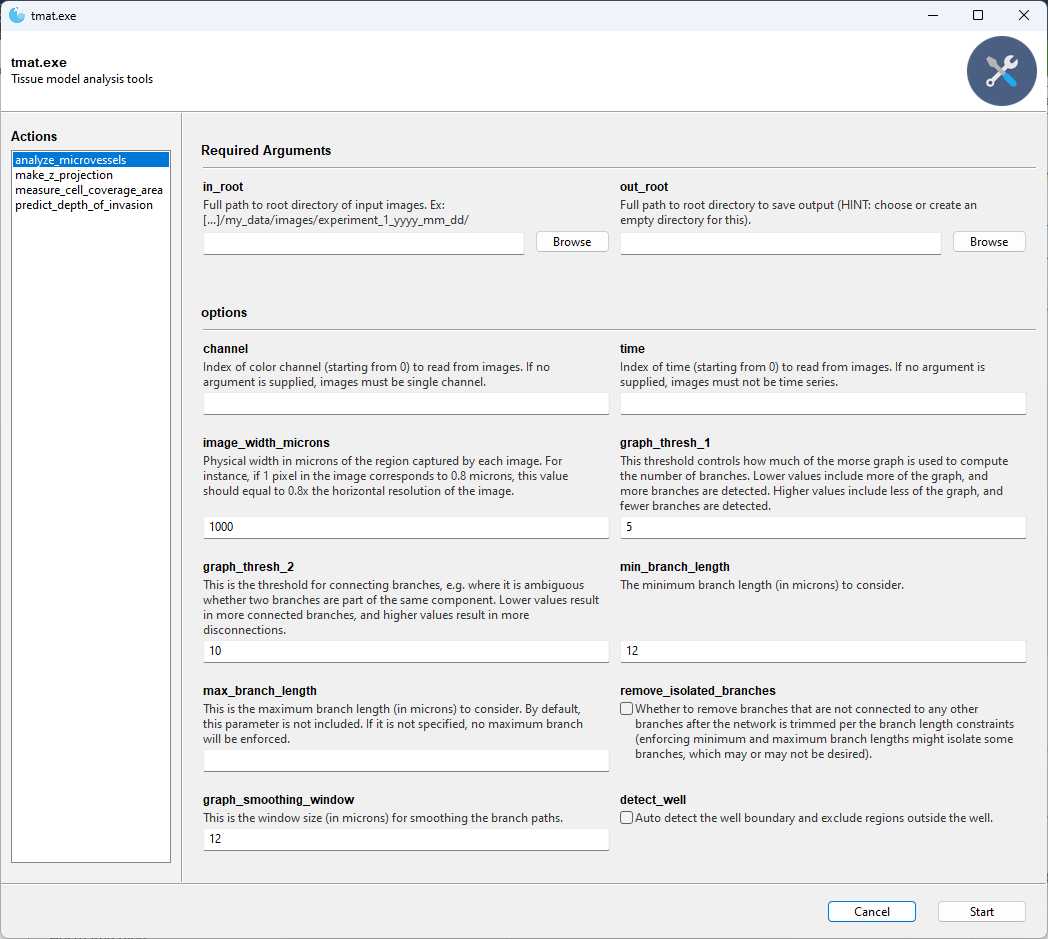
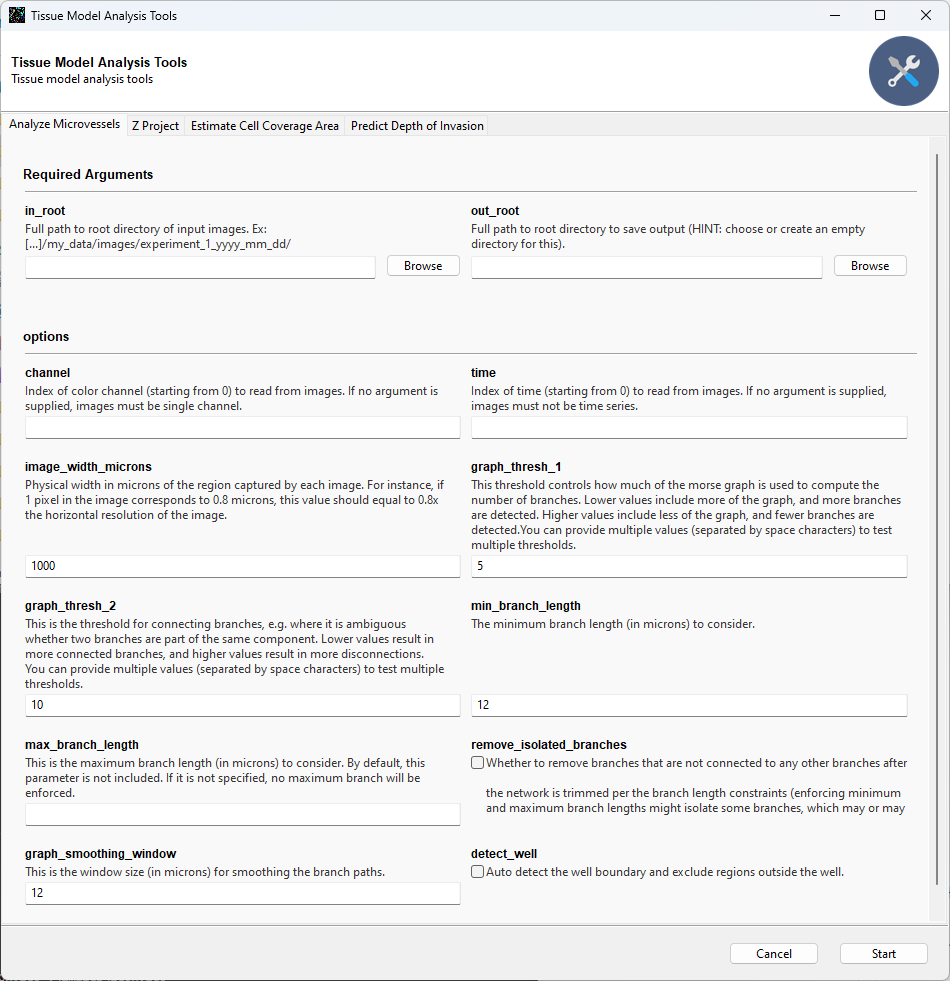
Update pyinstaller build

diff --git a/gui/tmat.py b/gui/tmat.py
@@ -9,7 +9,7 @@ from fl_tissue_model_tools.scripts import (
 
 @Gooey(
     program_name="Tissue Model Analysis Tools",
-    image_dir=local_resource_path("."),
+    image_dir=local_resource_path("./images"),
     navigation="TABBED",
 )
 def main():
